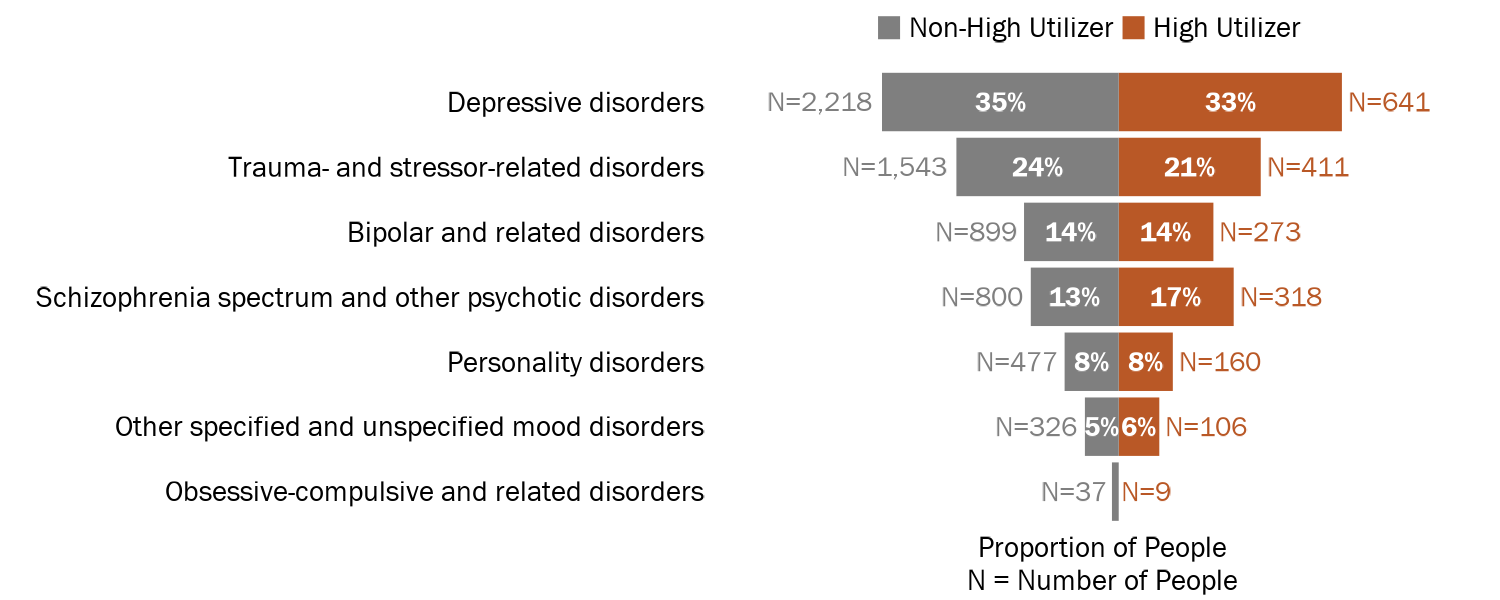
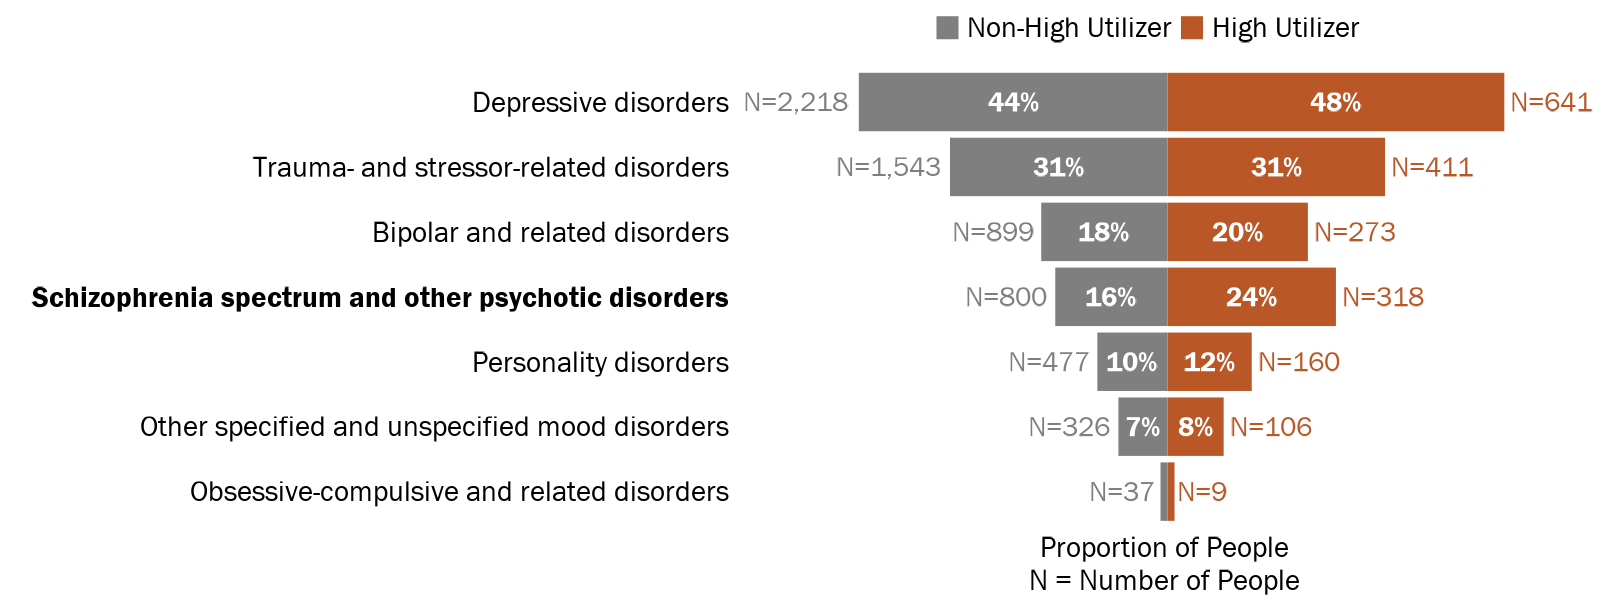
more visualizations on SMI and schizophrenia

diff --git a/_site/nh_medicaid_bh_encounters_mh_sud.html b/_site/nh_medicaid_bh_encounters_mh_sud.html
@@ -3439,6 +3439,13 @@ Statewide
 <div class="layout-chunk" data-layout="l-body">
 <p><img src="img/PRES_gg_diverge_hu_nonhu_smi.png" width="100%" /></p>
 </div>
+<p><br></p>
+<div class="layout-chunk" data-layout="l-body">
+
+</div>
+<div class="layout-chunk" data-layout="l-body">
+<p><img src="img/PRES_gg_diverge_tier1hu_nonhu_smi.png" width="100%" /></p>
+</div>
 <p><br><br></p>
 <h3 id="proportion-of-hus-and-non-hus-with-suicidal-ideationattemptintentional-self-harm-diagnoses">Proportion of HU’s and non-HU’s with suicidal ideation/attempt/intentional self-harm diagnoses</h3>
 <p><br><br></p>
